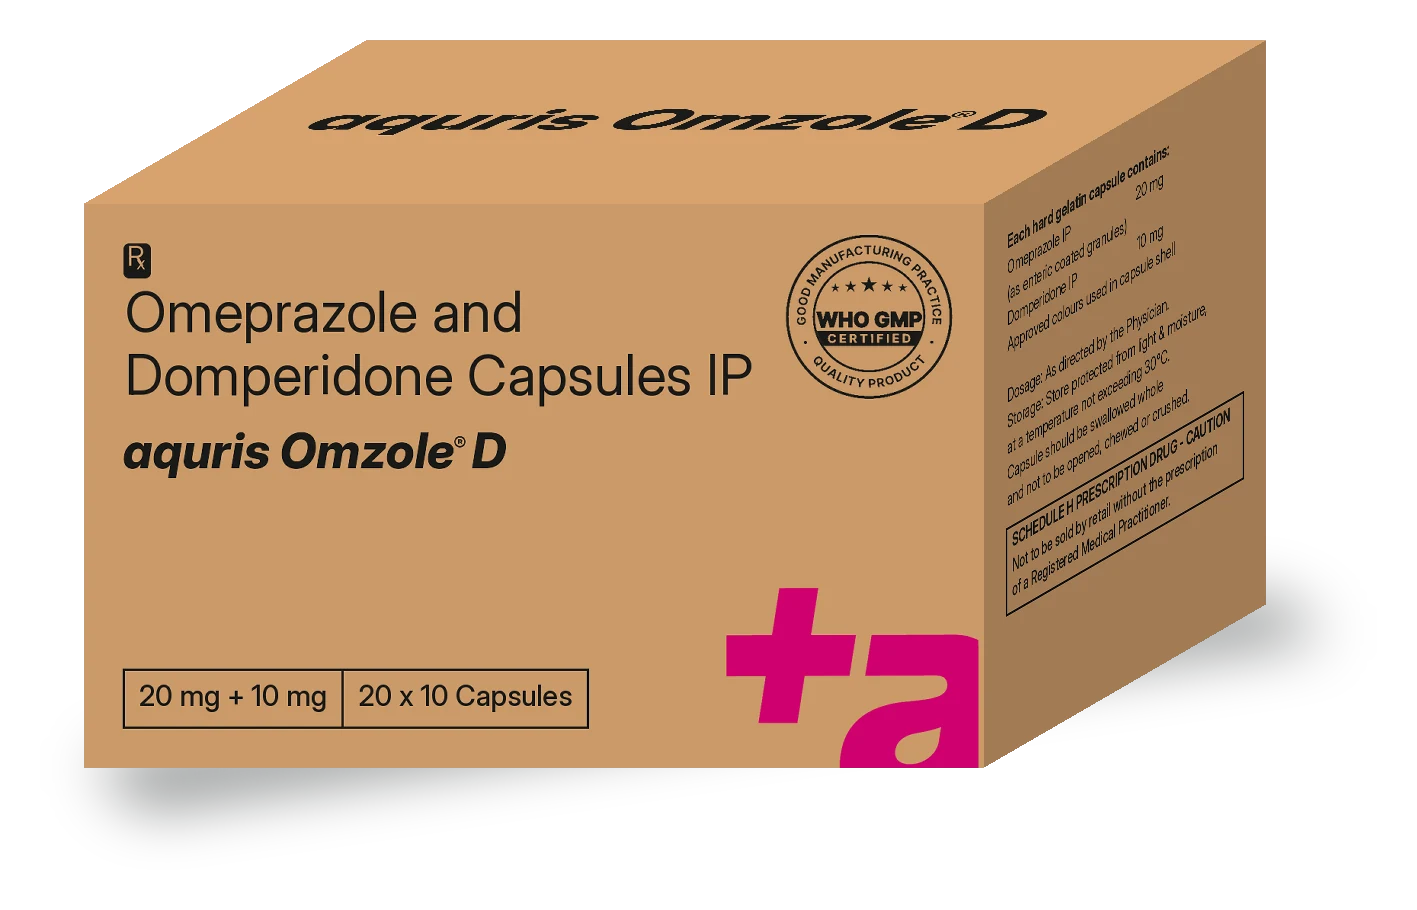
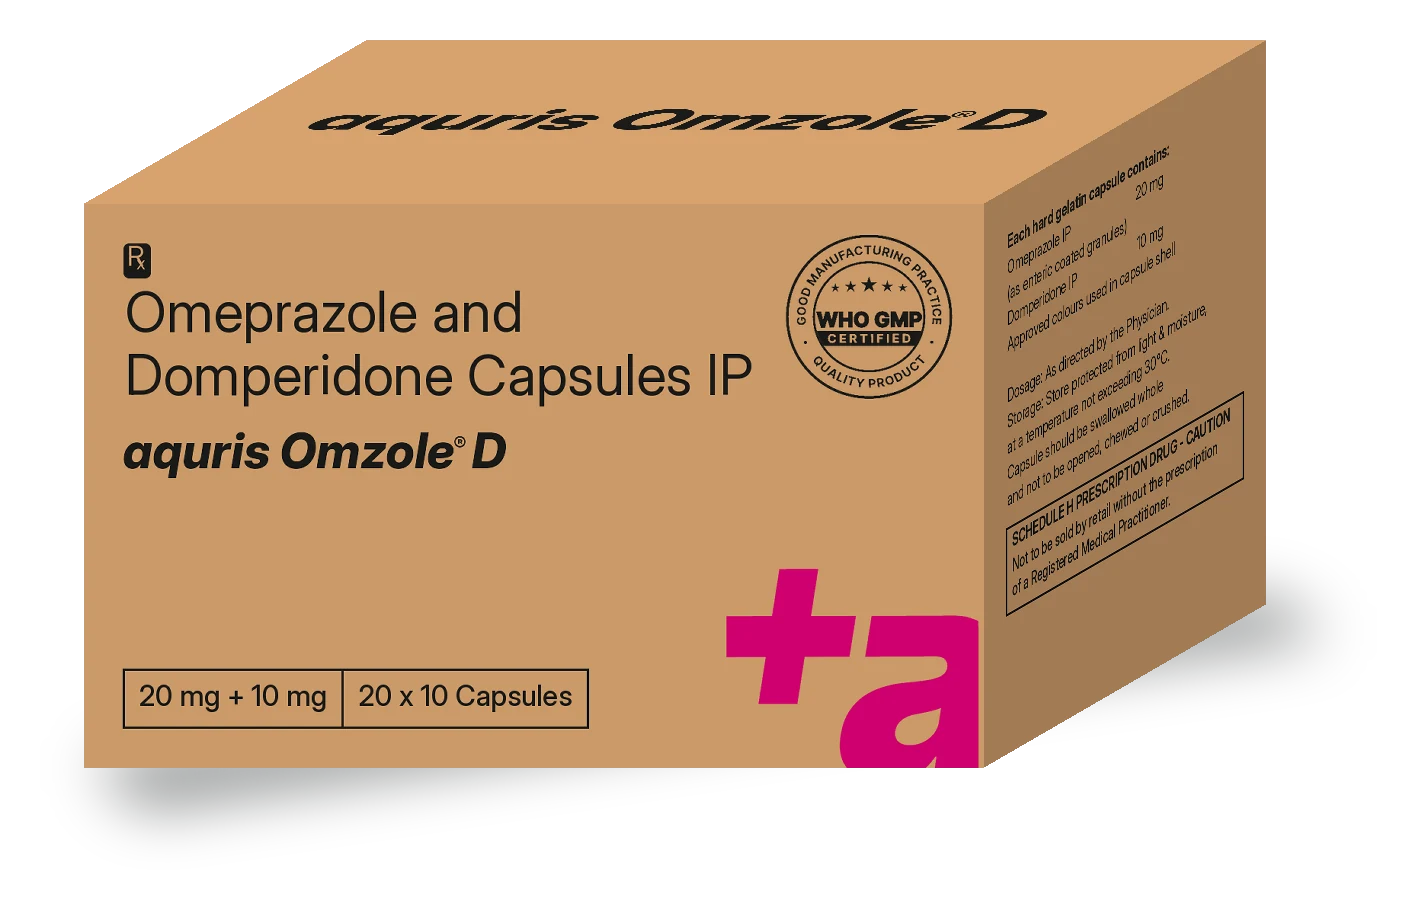
Omzole D pack shot: raise the "+a" so only ~5% bleeds off the bottom
Claude-Session: https://claude.ai/code/session_01YNdkZ2f25Pdtv5V1TQM9dx

Changed region(s): [[0.4968, 0.6154, 0.7142, 0.8615]]

diff --git a/scripts/make-mockup.py b/scripts/make-mockup.py
@@ -132,7 +132,7 @@ def front(spec, Lmm, Hmm):
         a = Image.open(os.path.join(ASSETS, "plus-a.png")).convert("L")
         ah = min(H * 0.5, W * 0.28 * a.height / a.width)  # same size as on the live ACEELO outer
         a = a.resize((round(a.width * ah / a.height), round(ah)), Image.LANCZOS)
-        stamp(img, a, hexrgb(p["color"]), W - a.width * 1.02, H - a.height * 0.86)
+        stamp(img, a, hexrgb(p["color"]), W - a.width * 1.02, H - a.height * 0.95)  # ~5% bleeds off the bottom, as on the patch packs
     else:
         img.paste(Image.new("RGB", (pw, H), hexrgb(p["color"])), (px0, 0))
     if p.get("lines"):
